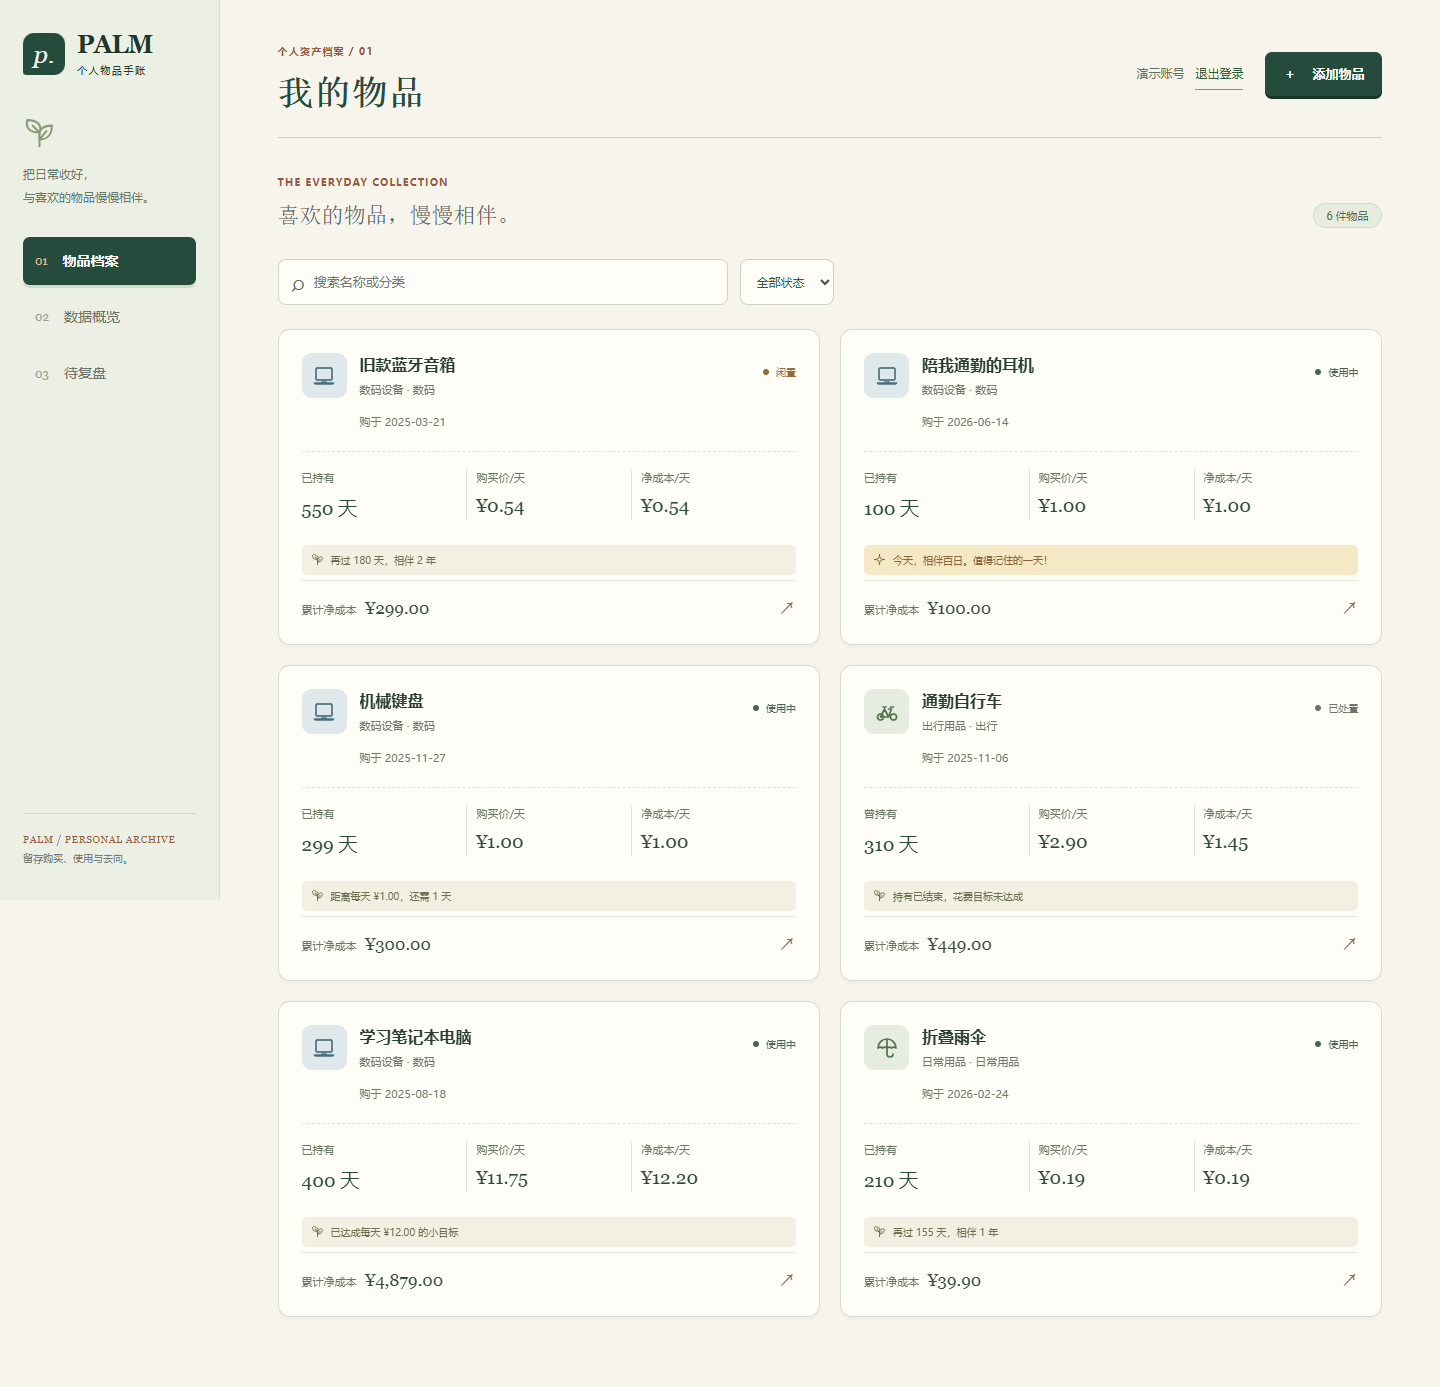
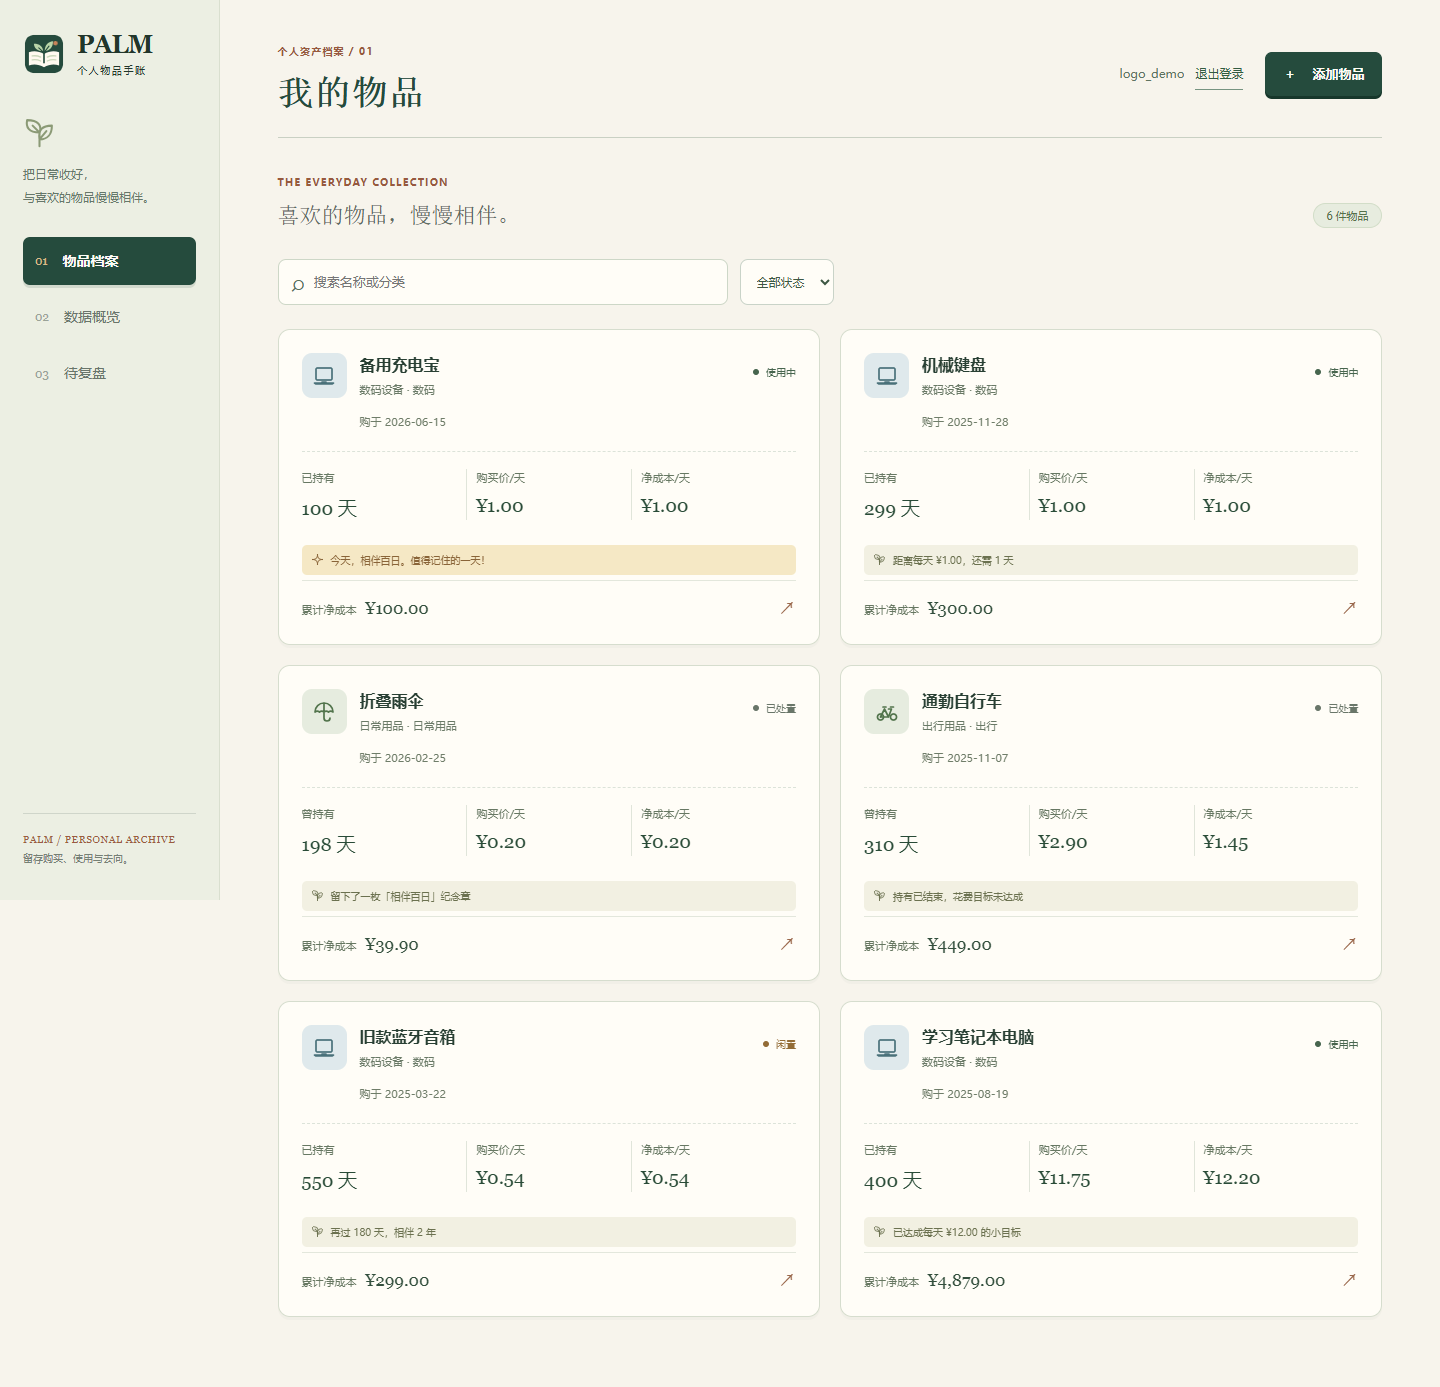
增加了logo

diff --git a/templates/landing.html b/templates/landing.html
@@ -9,7 +9,7 @@
 </header>
 <main>
   <section class="landing-hero page-width">
-    <div class="hero-copy"><span class="eyebrow"><i class="little-dot"></i> 给日常，留一份自己的记录</span><h1>你拥有的每一件，<br>都值得<span class="marked-word">被记住<svg viewBox="0 0 270 16" aria-hidden="true"><path d="M3 10Q100-3 265 5M20 15Q170 3 240 10"/></svg></span>。</h1><p>那副听过很多首歌的耳机，那辆陪你走过小路的单车。<br class="desktop-break">在 PALM，记下它们的来路、花费，以及相伴的日子。</p><div class="hero-actions"><a class="primary-btn large-btn" href="/register">建立我的物品档案 <span aria-hidden="true">↗</span></a><a href="#try-it" class="quiet-link">先体验一下 <span aria-hidden="true">↓</span></a></div><div class="hero-note"><span class="tiny-stamp" aria-hidden="true">p.</span> 一件物品，一段自己的故事。</div></div>
+    <div class="hero-copy"><span class="eyebrow"><i class="little-dot"></i> 给日常，留一份自己的记录</span><h1>你拥有的每一件，<br>都值得<span class="marked-word">被记住<svg viewBox="0 0 270 16" aria-hidden="true"><path d="M3 10Q100-3 265 5M20 15Q170 3 240 10"/></svg></span>。</h1><p>那副听过很多首歌的耳机，那辆陪你走过小路的单车。<br class="desktop-break">在 PALM，记下它们的来路、花费，以及相伴的日子。</p><div class="hero-actions"><a class="primary-btn large-btn" href="/register">建立我的物品档案 <span aria-hidden="true">↗</span></a><a href="#try-it" class="quiet-link">先体验一下 <span aria-hidden="true">↓</span></a></div><div class="hero-note"><img class="tiny-stamp" src="/static/palm-logo.svg" alt="" aria-hidden="true" width="28" height="28"> 一件物品，一段自己的故事。</div></div>
     <div class="archive-scene" aria-label="示例物品档案插画">
       <span class="scene-caption">日 常 收 藏 / 示例</span><span class="scene-spark spark-one" aria-hidden="true">✳</span>
       <article class="scene-card scene-main"><span class="paper-tape" aria-hidden="true"></span><div class="scene-card-heading"><span class="item-icon" data-type="digital">{{ icon('headphones') }}</span><span class="badge active">使用中</span></div><h2>陪我通勤的耳机</h2><p>生活里的小小配乐</p><div class="scene-number">365 <span>天的陪伴</span></div><div class="scene-card-footer"><span>购买价 / 天</span><strong>¥1.00</strong></div></article>

diff --git a/static/notebook.css b/static/notebook.css
@@ -10,7 +10,7 @@ button, .primary-btn, .secondary-btn { touch-action:manipulation; }
 .primary-btn:hover { background:#37644f; transform:translateY(-1px); }
 .primary-btn:active, .secondary-btn:active { transform:translateY(1px); box-shadow:none; }
 .secondary-btn { background:var(--sheet); }
-.brand-mark { border-radius:11px 11px 11px 3px; background:var(--ink); }
+.brand-mark { border-radius:11px 11px 11px 3px; }
 .brand-name small { font-size:10px; letter-spacing:.16em; }
 .eyebrow { color:var(--rust); font-size:10px; letter-spacing:.12em; }
 .type-icon { overflow:visible; }
@@ -34,7 +34,7 @@ button, .primary-btn, .secondary-btn { touch-action:manipulation; }
 .hero-copy>p { font-size:13px; color:var(--muted); line-height:2.1; margin:28px 0 30px; }
 .hero-actions { display:flex; align-items:center; gap:25px; flex-wrap:wrap; }
 .hero-note { display:flex; align-items:center; gap:10px; margin-top:35px; font-size:11px; color:var(--muted); }
-.tiny-stamp { display:grid; place-items:center; width:28px; height:28px; border:1px solid #c6cab8; border-radius:50%; font:italic 17px Georgia,serif; color:var(--rust); }
+.tiny-stamp { display:block; flex:none; width:28px; height:28px; object-fit:contain; }
 .archive-scene { position:relative; height:460px; border-radius:48% 46% 42% 45%; background:radial-gradient(ellipse at 50% 45%,#e6e9da 0%,#edeedf 57%,transparent 58%); }
 .scene-caption { position:absolute; top:8px; right:75px; color:#849078; font-size:10px; }
 .scene-card { background:var(--sheet); border:1px solid #d8ddcb; border-radius:11px; box-shadow:5px 10px 0 #344b3510,0 12px 30px #2c42200b; }

diff --git a/templates/index.html b/templates/index.html
@@ -2,11 +2,11 @@
 {% block scripts %}<script src="/static/app.js" defer></script>{% endblock %}
 {% block body_class %}archive-page{% endblock %}
 {% block content %}
-<div id="app-loading" class="app-loading" role="status"><span class="brand-mark" aria-hidden="true">p.</span><p>正在翻开你的手账…</p><button id="app-retry" class="secondary-btn hidden" type="button">重新加载</button></div>
+<div id="app-loading" class="app-loading" role="status"><img class="brand-mark" src="/static/palm-logo.svg" alt="" aria-hidden="true" width="42" height="42"><p>正在翻开你的手账…</p><button id="app-retry" class="secondary-btn hidden" type="button">重新加载</button></div>
   <div id="app-shell" class="app-shell hidden">
     <aside class="sidebar">
       <a class="brand" href="#items" data-view="items" aria-label="PALM 物品主页">
-        <span class="brand-mark" aria-hidden="true">p.</span>
+        <img class="brand-mark" src="/static/palm-logo.svg" alt="" aria-hidden="true" width="42" height="42">
         <span class="brand-name">PALM<small>个人物品手账</small></span>
       </a>
       <div class="sidebar-caption"><svg class="type-icon" aria-hidden="true"><use href="/static/icons.svg#sprout"></use></svg><span>把日常收好，<br>与喜欢的物品慢慢相伴。</span></div>

diff --git a/static/style.css b/static/style.css
@@ -20,9 +20,7 @@ button:focus-visible, input:focus-visible, select:focus-visible, textarea:focus-
 }
 .brand { display: flex; align-items: center; gap: 12px; color: #22362b; text-decoration: none; }
 .brand-mark {
-  width: 42px; height: 42px; display: grid; place-items: center;
-  background: #2c4535; color: #f4f2e8; font-family: Georgia, serif;
-  font-size: 25px; font-style: italic; line-height: 1;
+  width: 42px; height: 42px; display: block; flex: none; object-fit: contain;
 }
 .brand-name { font: 700 25px/1 Georgia, serif; letter-spacing: -.04em; }
 .brand-name small { display: block; margin-top: 7px; font: 500 10px/1.2 "Microsoft YaHei", sans-serif; letter-spacing: .15em; }
@@ -288,7 +286,7 @@ dialog::backdrop { background: #14231acc; }
   .app-shell { display: block; }
   .sidebar { position: static; height: auto; width: 100%; padding: 13px 17px; display: flex; flex-direction: row; align-items: center; gap: 12px; }
   .brand { gap: 8px; }
-  .brand-mark { width: 31px; height: 31px; font-size: 19px; }
+  .brand-mark { width: 31px; height: 31px; }
   .brand-name { font-size: 18px; }
   .brand-name small, .sidebar-caption, .sidebar-foot { display: none; }
   .sidebar nav { display: flex; margin-left: auto; border: 0; gap: 3px; }

diff --git a/templates/_macros.html b/templates/_macros.html
@@ -2,5 +2,5 @@
 <svg class="type-icon {{ extra }}" aria-hidden="true" focusable="false"><use href="/static/icons.svg#{{ type }}"></use></svg>
 {%- endmacro %}
 {% macro brand(href='/') -%}
-<a class="brand" href="{{ href }}" aria-label="PALM 首页"><span class="brand-mark" aria-hidden="true">p.</span><span class="brand-name">PALM<small>个人物品手账</small></span></a>
+<a class="brand" href="{{ href }}" aria-label="PALM 首页"><img class="brand-mark" src="/static/palm-logo.svg" alt="" aria-hidden="true" width="42" height="42"><span class="brand-name">PALM<small>个人物品手账</small></span></a>
 {%- endmacro %}

diff --git a/templates/base.html b/templates/base.html
@@ -6,6 +6,7 @@
   <meta name="theme-color" content="#254b3d">
   <meta name="description" content="PALM 个人物品手账，记下物品的购买、使用与去向，也记住相伴的每一天。">
   <title>{% block title %}PALM · 个人物品手账{% endblock %}</title>
+  <link rel="icon" type="image/svg+xml" href="/static/palm-logo.svg">
   <link rel="stylesheet" href="/static/style.css">
   <link rel="stylesheet" href="/static/notebook.css">
   {% block scripts %}{% endblock %}

diff --git a/README.md b/README.md
@@ -1,5 +1,7 @@
 # PALM：个人物品资产生命周期管理平台
 
+![PALM Logo：手账里长出新芽](static/palm-logo.svg)
+
 本地运行的多用户网页系统，以“个人物品手账”的形式记录物品从购买、使用、维修、闲置到处置的过程，并统计资产结构、使用成本，留下相伴纪念章与日均花费目标。不同账号的物品与统计相互隔离。前端使用 HTML、CSS、原生 JavaScript；后端使用 Python Flask；数据保存在 SQLite。
 
 ## 启动
@@ -38,9 +40,9 @@ python -m venv .venv
 
 已登录访问 `/`、`/login`、`/register` 会进入 `/app`。退出登录后回到介绍页，可重新登录其他账号；登录失效会提示重新登录。认证与业务页面不缓存账号内容，恢复浏览器历史页面时会重新检查登录。
 
-页面使用暖白、墨绿和淡彩标签，桌面物品卡片双列、窄屏单列；录入、详情、统计及认证页面使用同一套风格。插画和图标是本地 SVG，字体采用系统字体；动画遵循系统“减少动态效果”设置，无需外部字体、图片或图标服务。
+页面使用暖白、墨绿和淡彩标签，桌面物品卡片双列、窄屏单列；录入、详情、统计及认证页面使用同一套风格。品牌 Logo 是“手账与新芽”的本地 SVG，统一用于导航、登录页、加载画面、介绍页及浏览器标签；其他插画和图标也是本地 SVG。字体采用系统字体；动画遵循系统“减少动态效果”设置，无需外部字体、图片或图标服务。
 
-以下为 2026-09-22 使用演示数据截取的页面效果；实际物品、金额和持有天数会随账号数据及日期变化。
+以下为 2026-09-23 使用演示数据截取的页面效果；实际物品、金额和持有天数会随账号数据及日期变化。
 
 ### 登录前介绍页
 
